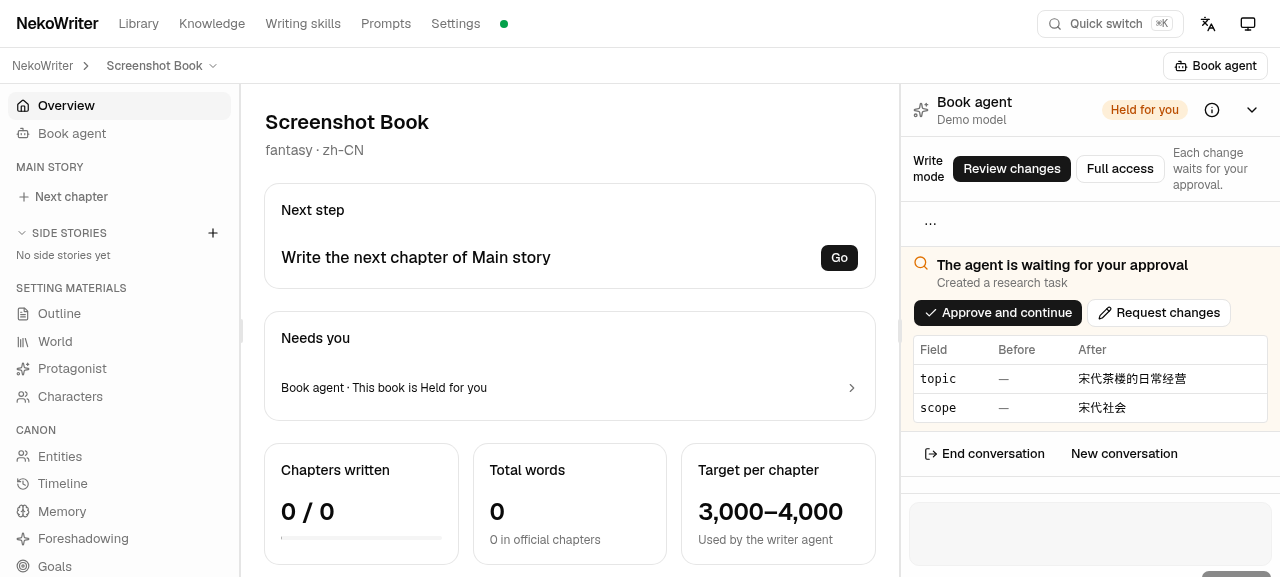
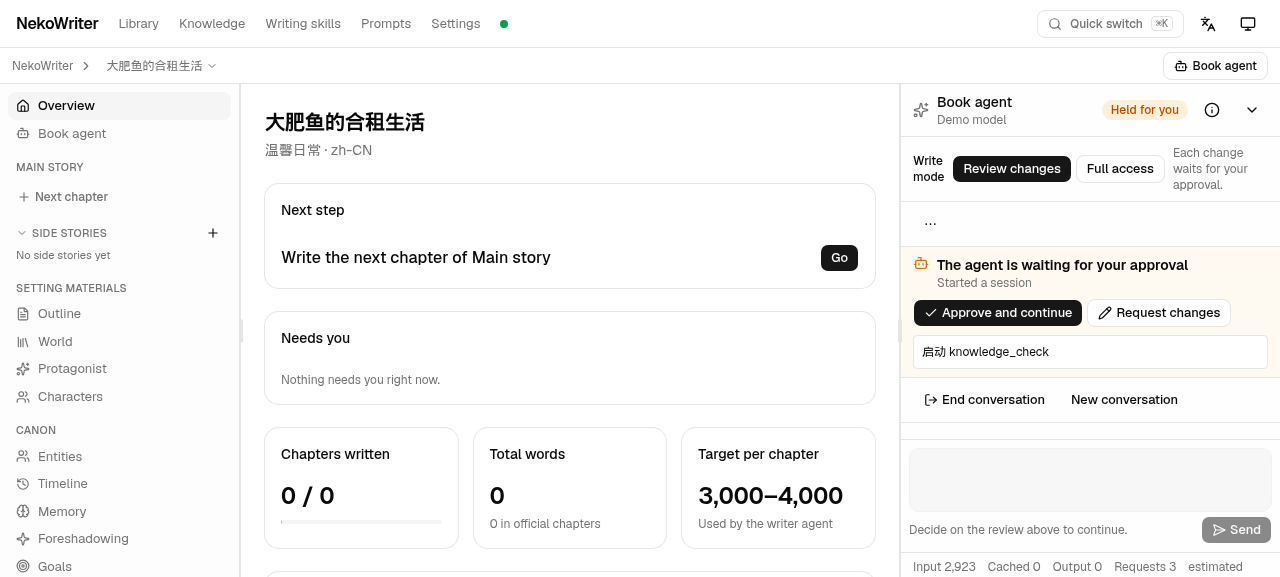
docs: record the M21 migration and smoke report (M21 21.8)
Run 0012 on a SQLite backup of the author's database and record the before/after table, ledger, foreign-key and book-preservation checks. Smoke the Demo book-agent review/full/start/end flow, and fix the header button to show BookAgentStart when no book-agent session exists.

diff --git a/web/src/features/agent/AgentPanel.tsx b/web/src/features/agent/AgentPanel.tsx
@@ -186,7 +186,7 @@ export function AgentPanel({ bookId, chapterId, bookStatus }: { bookId: number; 
     const openAgent = sessions
       .filter((entry) => entry.kind === "book_agent" && OPEN_STATUSES.has(entry.status))
       .sort((left, right) => right.id - left.id)[0]
-    setStartingNewConversation(false)
+    setStartingNewConversation(openAgent === undefined)
     setPinnedId(openAgent?.id ?? null, true)
   }), [bookId, sessions, setPinnedId])
 

diff --git a/docs/DECISIONS.md b/docs/DECISIONS.md
@@ -3942,6 +3942,30 @@ as before. The Demo provider now exercises the path spec/04 §7.2 describes, and
     until rollover is designed for conversations.
   - Every existing prompt, tool definition and `kickoff_baseline` snapshot is unchanged. Only new
     keys are added.
+  - **21.8 migration smoke (copy of the author's DB at 0011).**
+    | Check | Before | After |
+    |---|---|---|
+    | `agent_sessions` | 5 | 5, every `write_mode` NULL |
+    | `agent_messages` | 84 | 84 |
+    | `agent_tool_calls` | 277 | 277 |
+    | `agent_inbox` | 1 | 1 |
+    | `chapter_versions` | 0 | 0 |
+    | `setting_proposals` | 0 | 0 |
+    | `change_log` | 132 | 132 |
+    | `research_tasks` | 1 | 1 |
+    | `review_reports` | 0 | 0 |
+    | `chapter_feedback` | 0 | 0 |
+
+    `pragma foreign_key_check` was empty; the ledger gained `m0012_book_agent`; `0001_init.sql`
+    stayed byte-identical (SHA-256 `44bc8088…`); book #1, its three setting documents, nine
+    character designs and completed conception session #4 were unchanged.
+  - **21.8 smoke (Demo provider).** Review mode held a `create_research_task` with a readable
+    `fields` preview; Approve applied it, Request changes left it unapplied and put the feedback
+    in the transcript; Full access applied the same action without a hold; `start_session` created
+    a child session; End conversation completed the session and New conversation returned to the
+    start form. The Demo arm covers the conversation/task/start-session path, not canon, chapter
+    text or outline starts; those need a real model or a scripted provider and are recorded as a
+    smoke limitation rather than silently claimed.
 - **Spec**:
   - PROJECT §4, §5, §6.18, F13, §8.4, §8.6, §8.12, §10 (#11, #34), §11;
   - spec/02 §1, §2, §3, §4, §5;
